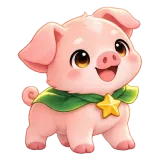
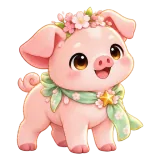
그림 14~16 작업 A 에셋 추가

diff --git a/public/sw.js b/public/sw.js
@@ -7,7 +7,7 @@
 // switches to it (and reloads) only when no exam or practice is on screen.
 
 // BUILD:START (generated by server/build-assets.mjs, do not edit by hand)
-const ASSET_HASH = 'f859a6533dd5008e';
+const ASSET_HASH = 'a2ac27c49cbffe22';
 const PRECACHE = ["/app.bundle.css","/app.js","/boot-guard.js","/icon.svg","/inapp.js","/","/manifest.webmanifest","/modules/arcade.js","/modules/battle-bot.js","/modules/battle-engine.js","/modules/battle-questions.js","/modules/battle.js","/modules/bracket-tv.js","/modules/card-levelup.js","/modules/celebrate.js","/modules/character.js","/modules/class-tv.js","/modules/core.js","/modules/emblems.js","/modules/flashcards.js","/modules/league-ui.js","/modules/lucky.js","/modules/market.js","/modules/monsters.js","/modules/pet-moments.js","/modules/petbook.js","/modules/rewards.js","/modules/rps.js","/modules/sessions.js","/modules/stocks.js","/modules/student.js","/modules/teacher.js","/modules/titles-ui.js","/modules/titles.js","/modules/tournament-ui.js","/modules/ui.js","/modules/word-minigame-ui.js","/modules/word-minigame.js","/practice-enhancements.js","/pwa.js","/student-enhancements.js","/sumus-logo-green.svg"];
 // BUILD:END
 

diff --git a/docs/asset-requests/runner/DONE_14.md b/docs/asset-requests/runner/DONE_14.md
@@ -1,0 +1,33 @@
+# 그림 14~16 작업 A 완료 기록
+
+Codex 내장 그림 생성 기능으로 20개 시트를 만들었다. Drive 안내 문장을 제외하고 주문서의 참고 그림을 첨부했다. 원본 PNG와 미리보기는 임시 폴더에만 보관했다.
+
+| 시트 | 넣은 그림 (`public/assets/` 아래) | 재생성 횟수 |
+|---|---|---:|
+| 14a-1 | `pets/pumpkincat-0~3.webp` | 0 |
+| 14a-2 | `pets/ghost-0~3.webp` | 0 |
+| 14b-1~3 | `pets/pumpkincat-1~3-{happy,eat,sad,cheer}.webp` | 각 0 |
+| 14b-4~6 | `pets/ghost-1~3-{happy,eat,sad,cheer}.webp` | 각 0 |
+| 14b-7 | `pets/pumpkincat-0-{happy,eat}.webp`, `pets/ghost-0-{happy,eat}.webp` | 0 |
+| 14b-8 | `ui/halloween-egg.webp`, `ui/limited-badge.webp`, `ui/halloween-deco-pumpkins.webp`, `ui/halloween-deco-moon.webp` | 0 |
+| 14b-9 | `battle/bg-halloween.webp` | 0 |
+| 15-1~4 | `battle/bg-{arena,practice,forest,boss}.webp` | 각 0 |
+| 16-1~2 | `pets/dog-{2,3}.webp`, 각 단계의 `{happy,eat,sad}.webp` | 각 0 |
+| 16-3~4 | `pets/pig-{2,3}.webp`, 각 단계의 `{happy,eat,sad}.webp` | 각 0 |
+| 16-5 | `pets/{dog,pig}-{2,3}-cheer.webp` | 0 |
+
+추가로 `pumpkincat-0~3`, `ghost-0~3`, `dog-2~3`, `pig-2~3`의 `-s.webp` 12개를 160×160으로 만들었다. 총 65개 본 그림과 12개 작은 그림이다.
+
+- 넣지 못한 그림: 없음.
+- 눈으로 확인 필요: 없음. 원본 시트와 잘린 미리보기를 확인했다.
+- 2×2 시트 15개의 1024×1024 크기, 투명 모서리, 네 칸 그림 유무를 확인했다. 배경 5개는 1280×853이며 모두 200KB 이하다.
+- `fit-sheets.mjs`는 기본 이름(`dog-2` 등)을 받지 않아 16-1~4의 표정은 이 도구로, 기본 그림은 기존 그림을 기준으로 `fit-assets.mjs`로 잘랐다. 도구 파일은 고치지 않았다.
+- 몽이·핑키는 기존 파일 이름을 덮어썼으므로 이 PR을 머지하면 운영 그림이 바로 바뀐다. 앱 버전은 올리지 않았다.
+
+## 점검 결과
+
+- `npm ci`: 성공
+- `npm run build:assets`: 성공 (`content-validation`, `browser-syntax` PASS)
+- `npm run check`: 실패 — `[release-check] FAIL · V13.99 battle.js sends idx with choice and spelling answers and locks the word once sent`
+- `npm run check:cloudflare`: 성공 (`cloudflare-check`, `battle-room-check` PASS)
+- 기존 그림 삭제: 0개. 수정한 기존 그림은 `dog-2*`, `dog-3*`, `pig-2*`, `pig-3*`뿐이다.
